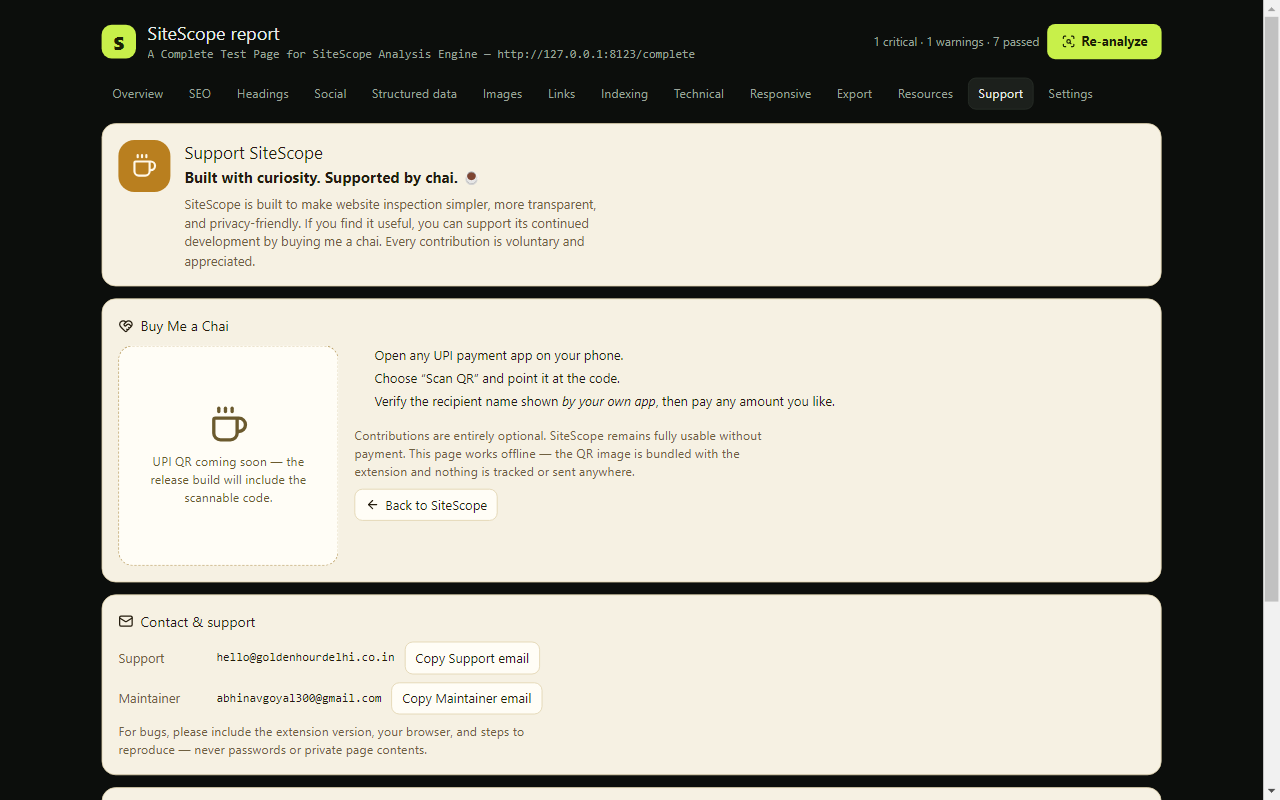
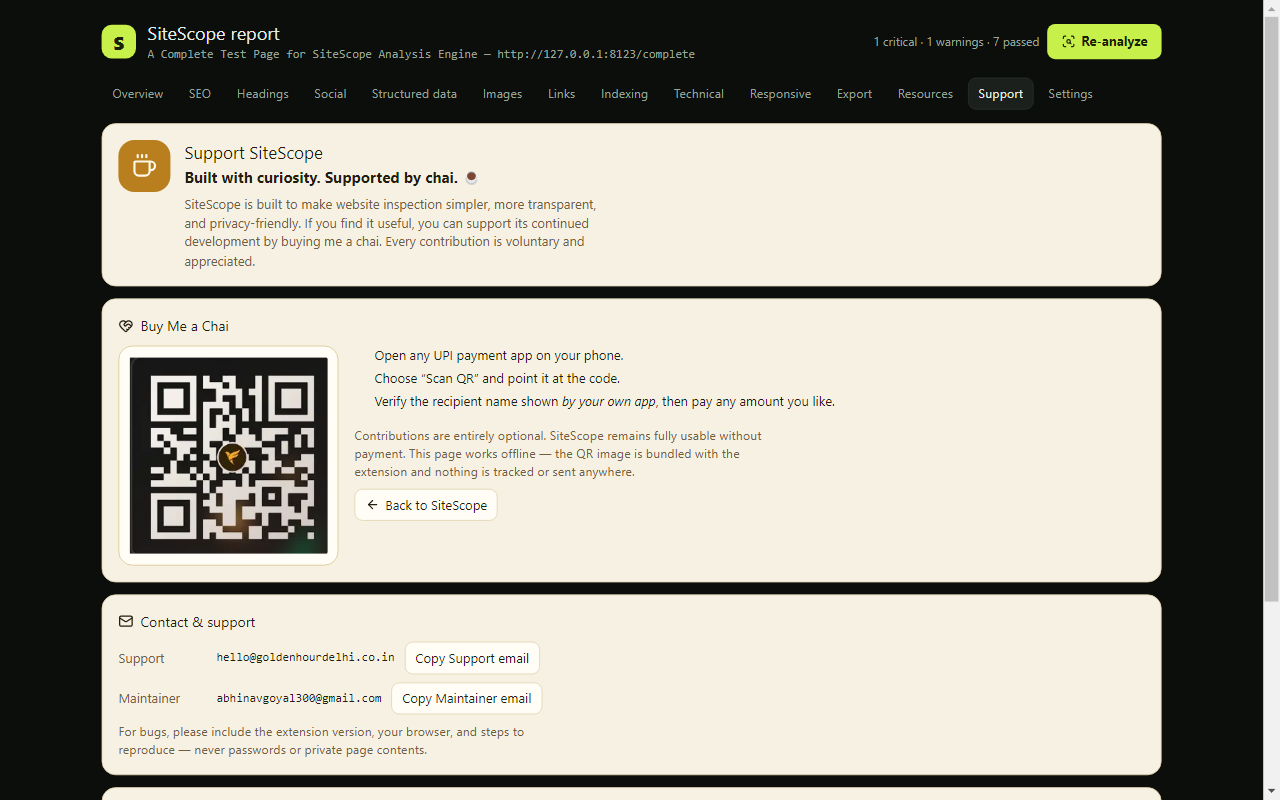
Add owner-supplied UPI QR (pinned) and QR release evidence
- public/support/upi-qr.png: owner file, verified PNG 270x267, sha256-pinned.
- support:check gate green for all five builds; Chrome re-verified 20/0/1.
- QA row 9b PASS; release hashes regenerated.

Changed region(s): [[0.0938, 0.4375, 0.2812, 0.7188]]

diff --git a/docs/QA_EXECUTION_SHEET.md b/docs/QA_EXECUTION_SHEET.md
@@ -27,7 +27,7 @@ Empty rows REQUIRE a human with a headed browser — do not fill them from autom
 | 8 | Filters (severity+search, headings level+text, 7 image filters, links type/rel/sort/search) | Chromium/Brave/Edge/Opera | see above | 2026-10-16 | PASS | Severity filter counts + search asserted; remaining filters rendered (14/14 tabs) — spot-check manually |
 | 9 | Heading highlight on/off, no leftover markers | — | — | — | BLOCKED | Needs content script in page (host grant); manual: Analyze → Headings → Highlight → toggle twice → inspect DOM |
 | 9a | Support tab: hero/chai/contact/about render, QR fallback shown (owner file pending), attribution + contacts correct, no console errors | Chromium/Brave/Edge/Opera | see above | 2026-10-16 | PASS | Screenshot `*-dashboard-support.png` per browser; QR slot verified by `support:check` gate (MISSING — expected until owner file lands) |
-| 9b | UPI QR real file: present, byte-identical in all five builds, scannable | — | — | — | BLOCKED | Owner to supply `public/support/upi-qr.png`; then record `upi-qr.sha256` and re-run `support:check --all --dist` |
+| 9b | UPI QR real file: present, byte-identical in all five builds, renders framed | Chromium | see above | 2026-10-16 | PASS | `public/support/upi-qr.png` (52,488 B, PNG 270×267, sha256 pinned in `upi-qr.sha256`); `support:check --all --dist` green; screenshot `chrome-dashboard-support.png` |
 | 10 | Exports: JSON parses; CSVs have headers; HTML prints; `sitescope-<host>-<date>` names; query warning | Chromium/Brave/Edge/Opera | see above | 2026-10-11 | PASS | Blob content + filenames captured in-browser (JSON round-trip 15 findings; links 3 rows; images 2 rows; HTML 8896 B) |
 | 10 | OS file-save + print-to-PDF | ALL (each) |  |  |  | Manual: headless drops all downloads; click each Download, open files, Print → Save as PDF |
 | 11 | robots.txt: allow shows file; deny shows `denied`, fetches nothing | Chromium/Brave/Edge/Opera | see above | 2026-10-11 | PASS | Deny-path verified (0 server hits); **grant-path manual** |

diff --git a/docs/RELEASE_READINESS.md b/docs/RELEASE_READINESS.md
@@ -79,12 +79,12 @@ messaging path is unit-covered for the promise-style API.
 NOT APPLICABLE: mobile browsers, backend/data-deletion flows (no backend),
 payments/identity disclosures (none).
 
-## F. Final artifacts (SHA-256, rebuilt + re-verified 2026-10-15; sizes stable, hashes rotated by zip timestamps)
+## F. Final artifacts (SHA-256, rebuilt + re-verified 2026-10-16 with owner QR bundled; sizes grew by the 52 KB QR image)
 
[10 lines of base64/hex data omitted]
 
 Store drafts: `docs/STORE_LISTINGS.md` (support contacts final). QA evidence: `qa-shots/{chrome,brave,edge,opera}-results.json` + PNG screenshots (see `docs/SCREENSHOTS.md`). Release-notes draft: `docs/RELEASE_NOTES_v1.0.1.md` (for paste into GitHub Release — NOT created).

diff --git a/CHANGELOG.md b/CHANGELOG.md
@@ -10,10 +10,10 @@ All notable changes to SiteScope are documented here. Format follows Keep a Chan
   third-party license table). LICENSE holder updated; MIT terms unchanged.
 - New dashboard Support tab ("Support SiteScope", warm ivory/amber design):
   voluntary Buy Me a Chai section with locally bundled owner-supplied UPI QR
-  (offline, no tracking, never auto-pays), contact section with the verified
+  (`public/support/upi-qr.png`, sha256-pinned, byte-identical in all five builds;
+  offline, no tracking, never auto-pays), contact section with the verified
   support addresses, and an About section. No new permissions, no external
-  requests. UPI QR image pending from owner at `public/support/upi-qr.png`
-  (builds continue with an honest in-page fallback until it lands).
+  requests.
 
 ## [1.0.1] — 2026-10-11 (Release Verification Sprint)
 

diff --git a/docs/SCREENSHOTS.md b/docs/SCREENSHOTS.md
@@ -13,7 +13,7 @@ All at 1280×800 viewport against the deterministic local fixture site
 | `<browser>-dashboard-overview.png` | 2. Findings overview | GENUINE, store-ready |
 | `<browser>-dashboard-headings.png` | 3. Headings visualizer | GENUINE, store-ready |
 | `<browser>-dashboard-export.png` | 5. Export tab | GENUINE, store-ready |
-| `<browser>-dashboard-support.png` | 6. Support SiteScope (chai + contacts) | GENUINE, store-ready (currently shows honest QR-coming-soon fallback; re-capture after owner QR lands) |
+| `<browser>-dashboard-support.png` | 6. Support SiteScope (chai + contacts) | GENUINE, store-ready (chrome capture shows the real owner QR; re-capture other browsers only if their fallback shots predate the QR) |
 
 Machine-readable evidence alongside: `<browser>-results.json`, `<browser>-inject.json`.
 
